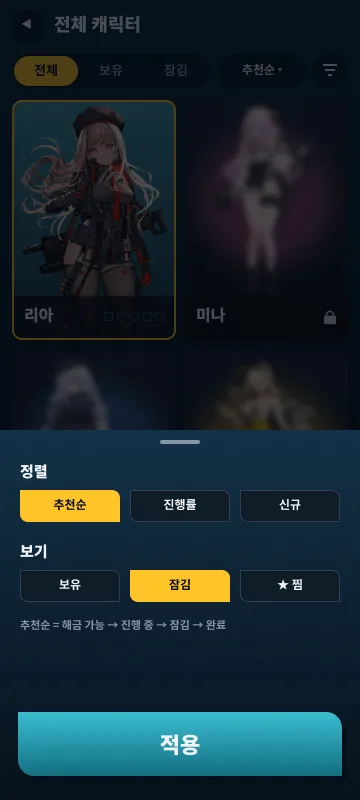
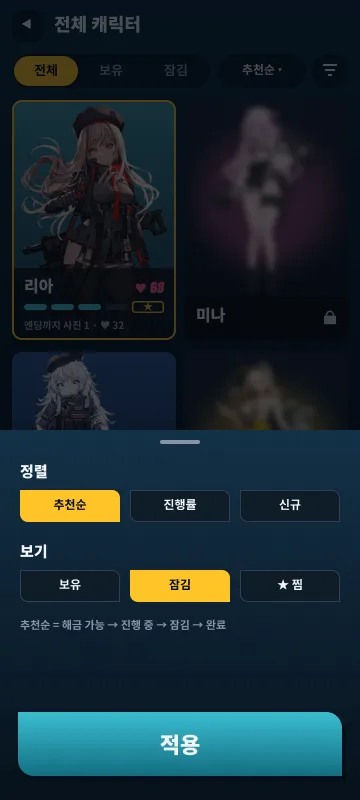
Proposal: paid re-pull sheet, ending progress on character list
Claude-Session: https://claude.ai/code/session_01QC4LnGUoEV4hPAaGSGh6GF

diff --git a/territory-romance-f2p-proposal.html b/territory-romance-f2p-proposal.html
@@ -47,6 +47,7 @@ section{margin:72px 0}
 .duo{display:grid;grid-template-columns:auto 1fr;gap:28px;align-items:center}
 .duo .pair{display:flex;gap:14px}
 .duo .pair figure{margin:0;width:200px}
+.duo .pair.three figure{width:170px}
 .duo .pair img{width:100%;display:block;border-radius:16px;border:3px solid #1c2e42}
 .pts{list-style:none;margin:0;padding:0;display:grid;gap:10px}
 .pts li{background:var(--card);border:1px solid var(--line);border-radius:12px;padding:12px 14px;font-size:15px}
@@ -64,7 +65,7 @@ section{margin:72px 0}
 .money{grid-template-columns:1fr 1fr}
 footer{border-top:1px solid var(--line);padding-top:18px;color:var(--muted);font-size:13px}
 @media(max-width:860px){.duo{grid-template-columns:1fr}.hero{grid-template-columns:1fr}.nums{grid-template-columns:repeat(2,1fr)}.money,.scope{grid-template-columns:1fr}.grid3{grid-template-columns:repeat(3,minmax(0,1fr));gap:10px}}
-@media(max-width:520px){.duo .pair figure{width:48%}.shot{flex-basis:160px}.grid3{grid-template-columns:1fr 1fr}.mcard img{width:90px}}
+@media(max-width:520px){.duo .pair figure,.duo .pair.three figure{width:48%}.duo .pair.three{flex-wrap:wrap}.shot{flex-basis:160px}.grid3{grid-template-columns:1fr 1fr}.mcard img{width:90px}}
 </style></head><body><div class="wrap">
 
 <header class="hero">
@@ -113,8 +114,9 @@ footer{border-top:1px solid var(--line);padding-top:18px;color:var(--muted);font
  <h2>엔딩은 뽑는다</h2>
  <p class="sub">첫 판은 공짜. 더 높은 등급이 보이니까 한 번 더.</p>
  <div class="duo">
-  <div class="pair">
+  <div class="pair three">
    <figure><img src="japan-project/proposal-screens/07-ending.webp" alt="엔딩 뽑기" loading="lazy"></figure>
+   <figure><img src="japan-project/proposal-screens/e1-repull.webp" alt="다시 뽑기" loading="lazy"></figure>
    <figure class="holo"><img src="japan-project/proposal-screens/08-result.webp" alt="UR 결과" loading="lazy" style="border-radius:16px"></figure>
   </div>
   <div>
@@ -125,7 +127,8 @@ footer{border-top:1px solid var(--line);padding-top:18px;color:var(--muted);font
    </div>
    <ul class="pts" style="margin-top:12px">
     <li>뽑기 화면에 <b>“최고 UR까지”</b> 뱃지 + 확률 한 줄 상시 노출</li>
-    <li>2회째부터 <b>◇300</b> · <b>20회째 UR 확정</b></li>
+    <li>다시 뽑기 = 확인 시트 1장: <b>내 보유 등급 · UR까지 남은 횟수 · ◇300</b></li>
+    <li><b>20회째 UR 확정</b> (무료 1회 포함)</li>
     <li>어떤 등급이든 첫 1장으로 앨범 5/5 — 무과금도 엔딩 본다</li>
     <li>중복 등급 → 대화권 3장 · 등급 모으기 보상 없음</li>
    </ul>
@@ -134,10 +137,10 @@ footer{border-top:1px solid var(--line);padding-top:18px;color:var(--muted);font
 </section>
 
 <section id="lobby">
- <h2>잠긴 캐릭터는 흐리게, 움직이게</h2>
- <p class="sub">보일 듯 안 보여야 열고 싶다.</p>
+ <h2>목록만 봐도 다음 할 일이 보인다</h2>
+ <p class="sub">보유 캐릭터는 엔딩까지 남은 것, 잠긴 캐릭터는 흐리게 움직이게.</p>
  <div class="grid3">
-  <figure class="shot"><img src="japan-project/proposal-screens/l1-list.webp" alt="" loading="lazy"><figcaption><b>전체 보기</b><span>2열 큰 카드 · 블러 루프</span></figcaption></figure>
+  <figure class="shot"><img src="japan-project/proposal-screens/l1-list.webp" alt="" loading="lazy"><figcaption><b>전체 보기</b><span>카드마다 엔딩 진행도 · 최고 등급</span></figcaption></figure>
   <figure class="shot"><img src="japan-project/proposal-screens/l2-locked.webp" alt="" loading="lazy"><figcaption><b>잠긴 캐릭터</b><span>해금권 or ◇1,000</span></figcaption></figure>
   <figure class="shot"><img src="japan-project/proposal-screens/l1f-filter.webp" alt="" loading="lazy"><figcaption><b>정렬 · 필터</b><span>추천순 · 진행률 · 신규</span></figcaption></figure>
  </div>
@@ -162,7 +165,7 @@ footer{border-top:1px solid var(--line);padding-top:18px;color:var(--muted);font
   <div class="mcard"><img src="japan-project/proposal-screens/l2-locked.webp" alt="" loading="lazy"><div><h3>캐릭터 바로 열기</h3><div class="price">◇ 1,000</div><p>접근만 앞당긴다. 사진·친밀도는 0부터.</p></div></div>
   <div class="mcard"><img src="japan-project/proposal-screens/03-timeup.webp" alt="" loading="lazy"><div><h3>이어하기 · 부스터</h3><div class="price">◇ 100~150</div><p>사진 직전 실패에서 +30초. 스타터 팩 ¥980.</p></div></div>
   <div class="mcard"><img src="japan-project/proposal-screens/06-bond.webp" alt="" loading="lazy"><div><h3>대화권</h3><div class="price">5장 ◇ 100</div><p>♥가 모자랄 때, 나쁜 답을 되돌릴 때.</p></div></div>
-  <div class="mcard"><img src="japan-project/proposal-screens/07-ending.webp" alt="" loading="lazy"><div><h3>엔딩 다시 뽑기</h3><div class="price">◇ 300</div><p>R 70 · SR 25 · UR 5%. 20회째 UR 확정.</p></div></div>
+  <div class="mcard"><img src="japan-project/proposal-screens/e1-repull.webp" alt="" loading="lazy"><div><h3>엔딩 다시 뽑기</h3><div class="price">◇ 300</div><p>R 70 · SR 25 · UR 5%. 20회째 UR 확정.</p></div></div>
  </div>
  <div class="rule">사진 · 친밀도는 팔지 않는다. 기본 엔딩은 무료 1회로 보장한다.</div>
 </section>
